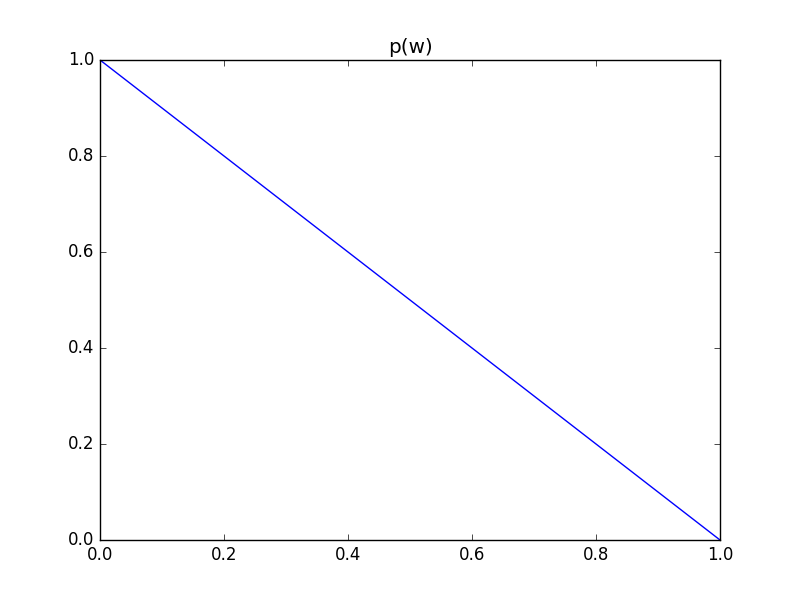
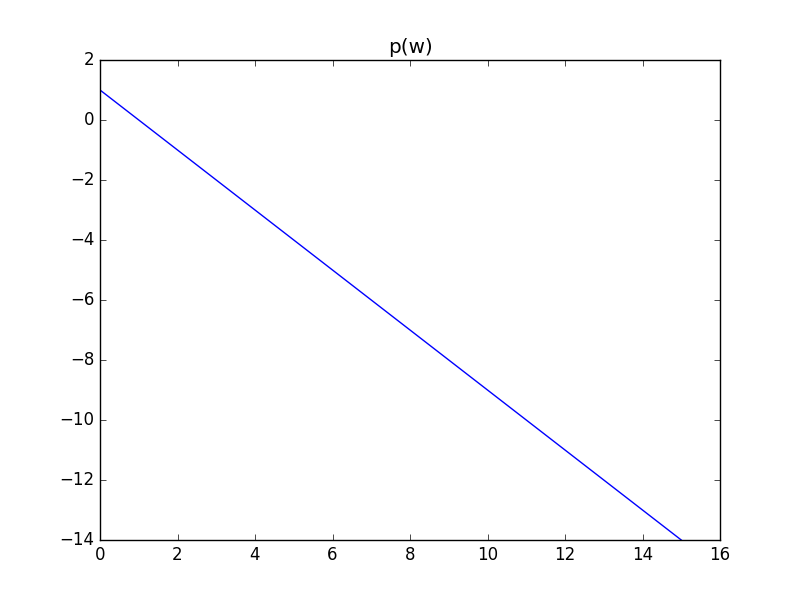
Small fixes

diff --git a/numeric/views.py b/numeric/views.py
@@ -229,25 +229,28 @@ def manual(request):
 
             fig = plt.figure()
             plt.title('S(t)')
-            plt.plot([p.x for p in s], [p.y for p in s])
+            s_tabs = solver.table(s, 0, T, steps)
+            plt.plot([p.x for p in s_tabs], [p.y for p in s_tabs])
             fig.savefig(settings.STATIC_DIR + 's.png')
             context['pics'].append('/static/s.png')
 
             fig = plt.figure()
             plt.title('z(t)')
-            plt.plot([p.x for p in z], [p.y for p in z])
+            z_tabs = solver.table(z, 0, T, steps)
+            plt.plot([p.x for p in z_tabs], [p.y for p in z_tabs])
             fig.savefig(settings.STATIC_DIR + 'z.png')
             context['pics'].append('/static/z.png')
 
             fig = plt.figure()
             plt.title('p(w)')
-            plt.plot([l.x for l in p], [l.y for l in p])
+            p_tabs = solver.table(p, 0, T, steps)
+            plt.plot([l.x for l in p_tabs], [l.y for l in p_tabs])
             fig.savefig(settings.STATIC_DIR + 'dens.png')
             context['pics'].append('/static/dens.png')
 
             fig = plt.figure()
             plt.title('P')
-            q = solver.table(solver.integral(solver.interpolate(p), 0, 0, 100), 0, 1, 100)
+            q = solver.table(solver.integral(p, 0, 0, 100), 0, 1, 100)
             plt.plot([p.x for p in q], [p.y for p in q])
             fig.savefig(settings.STATIC_DIR + 'prob.png')
             context['pics'].append('/static/prob.png')

diff --git a/adv_calc/urls.py b/adv_calc/urls.py
@@ -1,4 +1,4 @@
-"""advertisement_server URL Configuration
+"""adv_calc URL Configuration
 
 The `urlpatterns` list routes URLs to views. For more information please see:
     https://docs.djangoproject.com/en/1.10/topics/http/urls/

diff --git a/adv_calc/wsgi.py b/adv_calc/wsgi.py
@@ -1,5 +1,5 @@
 """
-WSGI config for advertisement_server project.
+WSGI config for adv_calc project.
 
 It exposes the WSGI callable as a module-level variable named ``application``.
 

diff --git a/adv_calc/settings.py b/adv_calc/settings.py
@@ -1,5 +1,5 @@
 """
-Django settings for advertisement_server project.
+Django settings for adv_calc project.
 
 Generated by 'django-admin startproject' using Django 1.10.2.
 
